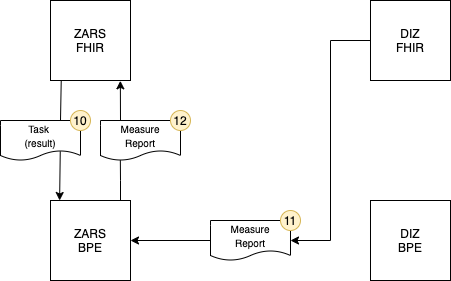
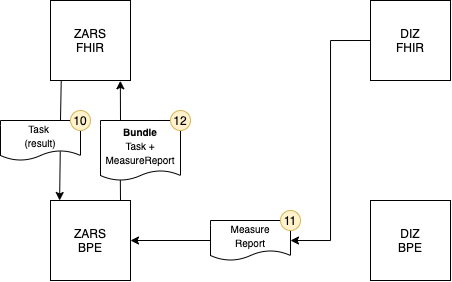
Use Numbered Lists instead of Prose
Also updated step 12 to use a transaction bundle to update Task and MeasureReport in one transaction.

diff --git a/codex-process-feasibility/README.md b/codex-process-feasibility/README.md
@@ -6,7 +6,7 @@ A distributed feasibility query runs based on the feasibility process. A feasibi
 
 ![fig-1](./docs/codex-feasibility-process-01.png)
 
-As you can see in the figure above, the feasibility query process starts with a `request` message (1) that the ZARS or any other initiating organization sends to itself. By sending this message to the ZARS itself, the business process engine (BPE) of the ZARS can be used to distribute the `execute` messages (2) to all DIZ'es in question. After receiving the `execute` messages, each DIZ will calculate the result and answer with a `result` message (3). The ZARS will accumulate the results and provide the requester with live updates.
+As you can see in the figure above, the feasibility query process starts with a `request` message (1) that the ZARS or any other initiating organization sends to itself. By sending this message to the ZARS itself, the Business Process Engine (BPE) of the ZARS can be used to distribute the `execute` messages (2) to all DIZ'es in question. After receiving the `execute` messages, each DIZ will calculate the result and answer with a `result` message (3). The ZARS will accumulate the results and provide the requester with live updates.
 
 ## Request and Execute Process in Detail
 
@@ -16,31 +16,37 @@ Messages, queries and results are represented by FHIR resources. The following t
 
 ![fig-1](./docs/codex-feasibility-process-02.png)
 
-Like in the high-level overview, the process starts with the `request` message (1). Beside the FHIR [Task][1] resource for the message, two other FHIR resources will be sent to the ZARS FHIR server. The first one is the [Measure][2] resource specifying the population criteria that are defined in the second resource, the [Library][3]. All three resources are put into a transaction [Bundle][4] in order to create all together in one transaction.
+1. Like in the high-level overview, the process starts with the `request` message. Beside the FHIR [Task][1] resource for the message, two other FHIR resources will be sent to the ZARS FHIR server. The first one is the [Measure][2] resource specifying the population criteria that are defined in the second resource, the [Library][3]. All three resources are put into a transaction [Bundle][4] in order to create all together in one transaction.
 
-After the ZARS FHIR server receives the resources, it notifies the ZARS BPE via websocket subscription by transmitting the Task resource (2). The incoming Task resource starts the `request` process that implements the query distribution to all appropriate DIZ'es. To each DIZ, an `execute` message (3) is sent via a Task resource.
-
+1. After the ZARS FHIR server receives the resources, it notifies the ZARS BPE via websocket subscription by transmitting the Task resource. The incoming Task resource starts the `request` process that implements the query distribution to all appropriate DIZ'es. 
+   
 ### Execute Query
 
-After arriving at the DIZ FHIR communication server, the `execute` Task resource is transferred to the DIZ BPE via  websocket subscription (4), starting the `execute` process.
+3. To each DIZ, an `execute` message is sent via a Task resource.
+
+3. After arriving at the DIZ FHIR communication server, the `execute` Task resource is transferred to the DIZ BPE via websocket subscription, starting the `execute` process.
 
 ![fig-1](./docs/codex-feasibility-process-03.png)
 
-In each DIZ, the `execute` process starts by fetching the Measure and Library resource (5) created at the ZARS FHIR communication server. The resources have to be fetched by the BPE because only Task resources are sent actively between organizations and message payload is only fetched in case a process really needs it. FHIR search is used in order to fetch both resources in one HTTP request by searching for the Measure resource and including the referenced Library resource.
+5. In each DIZ, the `execute` process starts by fetching the Measure and Library resource created at the ZARS FHIR communication server. The resources have to be fetched by the BPE because only Task resources are sent actively between organizations and message payload is only fetched in case a process really needs it. FHIR search is used in order to fetch both resources in one HTTP request by searching for the Measure resource and including the referenced Library resource.
 
-In the next step, the `execute` process stores the Measure and Library resources (6) to the Blaze FHIR server in order to be able to execute the [$evaluate-measure][5] operation. The resulting [MeasureReport][6] resource is transferred back to the DIZ BPE (7).
+5. In the next step, the `execute` process stores the Measure and Library resources to the Blaze FHIR server in order to be able to execute the [$evaluate-measure][5] operation. 
+   
+5. The resulting [MeasureReport][6] resource is transferred back to the DIZ BPE.
 
-After receiving the MeasureReport, the DIZ BPE stores it on the DIZ FHIR communication server (8) in order to make it available for the ZARS.
+5. After receiving the MeasureReport, the DIZ BPE stores it on the DIZ FHIR communication server in order to make it available for the ZARS.
 
 ### Retrieve Results
 
-In its last step, the `execute` process sends a `result` message (9) to the ZARS. The `result` message references the MeasureReport, so that it can be retrieved by the ZARS.
+9. In its last step, the `execute` process sends a `result` message to the ZARS. The `result` message references the MeasureReport, so that it can be retrieved by the ZARS.
 
 ![fig-1](./docs/codex-feasibility-process-04.png)
 
-After arrival, the ZARS FHIR communication server will send the `result` Task resource to the ZARS BPE via websocket subscription (10). The incoming `result` message will use its correlation ID to match the original `request` process to continue. As part of this process, the MeasureReport resource will be fetched from the DIZ (11) and stored on the ZARS FHIR communication server (12). 
-
-As last step, the original `request` Task is updated with a reference to the MeasureReport in its output parameter, so that the requester can obtain it.
+10. After arrival, the ZARS FHIR communication server will send the `result` Task resource to the ZARS BPE via websocket subscription. The incoming `result` message will use its correlation ID to match the original `request` process to continue. 
+    
+10. As part of this process, the MeasureReport resource is fetched from the DIZ.
+    
+10. The fetched MeasureReport resource is stored on the ZARS FHIR communication server together with the updated Task resource which references the MeasureReport resource in its output parameter, in order to make it available to the initial requester.
 
 ## Request Process as BPMN Model
 
